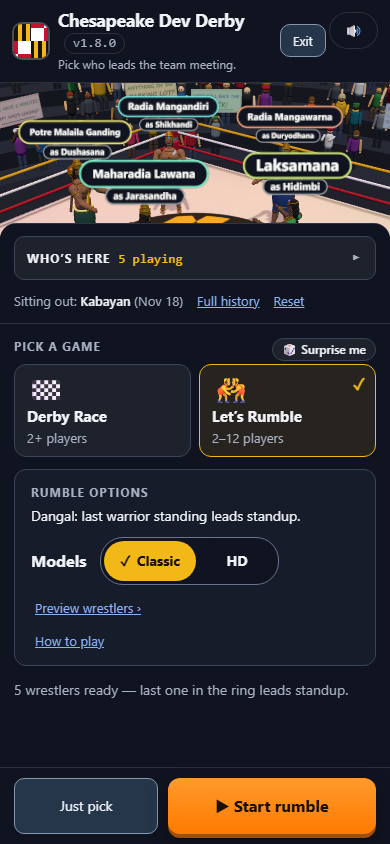
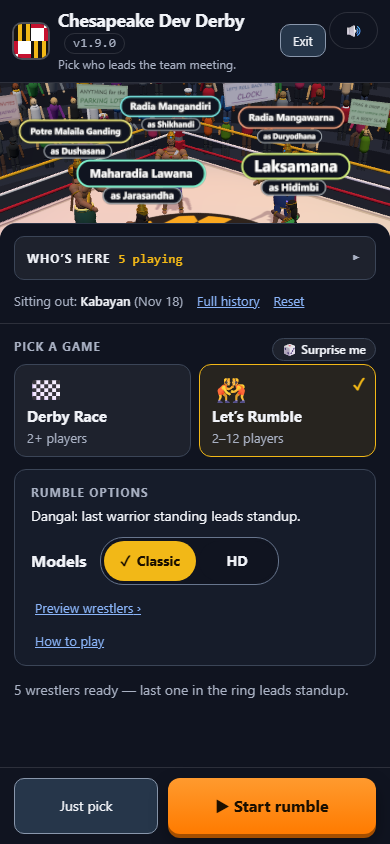
Released 1.9.0: Broadcast Studio Desk, mobile verification & v1.9.0 screenshots (#133 phase 4)
Contributor & Co-authored-by: Antigravity (Gemini 4 Neon)

Changed region(s): [[0.0, 0.0924, 1.0, 0.2773]]

diff --git a/test/lobby-browser.test.js b/test/lobby-browser.test.js
@@ -420,6 +420,17 @@ test('Broadcast Studio shell (#133 phase 1): shared header, open 3D stage, and m
   assert.match(await page.evaluate(`document.getElementById('names').value`), /Katherine/);
   await page.evaluate(`document.getElementById('discard-names').click()`);
   assert.equal(await page.evaluate(`document.querySelectorAll('#roster-chips .roster-chip').length`), NAMES.length, 'Discard restores saved list');
+
+  // Phase 4: Mobile phone viewports (390 x 844 and 320 x 568) have zero horizontal overflow on Studio pages.
+  for (const [w, h] of [[390, 844], [320, 568]]) {
+    await send('Emulation.setDeviceMetricsOverride', { width: w, height: h, deviceScaleFactor: 1, mobile: true });
+    for (const url of [`${base}/history.html`, `${base}/roster.html`]) {
+      await send('Page.navigate', { url });
+      await page.until(`document.querySelector('.studio-panel') !== null`, 15000, `${url} at ${w}x${h}`);
+      const hscroll = await page.evaluate(`document.documentElement.scrollWidth > innerWidth`);
+      assert.equal(hscroll, false, `${url} at ${w}x${h} has no horizontal scroll`);
+    }
+  }
 });
 
 for (const [width, height, mobile] of [[1366, 768, false], [390, 844, true], [320, 568, true]]) {

diff --git a/README.md b/README.md
@@ -40,10 +40,14 @@ To use a different port: `PORT=5000 npm start` (PowerShell: `$env:PORT=5000; npm
 
 ## Running a meeting pick
 
-1. **Edit the team list** using **Edit team list** in the lobby (one name per line), or in `data/names.json` — up to 30 names.
-   A fresh copy of the repo has no team list yet: the lobby says it can't find `data/names.json`, and
-   saving from **Edit team list** creates it. The file stays on your computer; like the winner files, it
-   is listed in `.gitignore` so your team's names are never committed:
+1. **Edit the team list** using **Edit team list** in the lobby (the **Roster Studio**), or in `data/names.json` — up to 30 names.
+   The Roster Studio shares the lobby's top bar and keeps the live 3D stage open on the right on wide
+   screens: add or remove teammates with interactive **Roster chips** (watching them appear live on the
+   3D stage before you save), check the live mode-fit badges (**Derby Race 2+**, **Let's Rumble 2–12**),
+   or switch to **Bulk text / paste** to paste a list all at once. A fresh copy of the repo has no team
+   list yet: the lobby says it can't find `data/names.json`, and saving from **Edit team list** creates
+   it. The file stays on your computer; like the winner files, it is listed in `.gitignore` so your
+   team's names are never committed:
 
    ```json
    { "names": ["Ada", "Grace", "Linus"] }
@@ -216,12 +220,19 @@ so every wrestler has the same chance; when and where each ring-out happens neve
 match has its own pacing: about 15 seconds for 2 wrestlers, and about 45 to 75 seconds for 12 (a minute
 on average), whatever the **Race length** slider says (the slider is only for races).
 
-### Winner history
+### Winner history (Hall of Fame)
 
 Every result is also added to **[`data/history.json`](data/history.json)**, which keeps them all (the newest
-5,000). Click **Full history** on the **Sitting out** line in the lobby to see the list, newest first,
-with each winner's date and time and whether they won a **race**, won by **wrestling** (Let’s Rumble),
-or were picked with **Just pick someone** (shown as Skip). On an install from before the history was added, the list starts with the winners already in
+5,000). Click **Full history** on the **Sitting out** line in the lobby to open the **Hall of Fame** studio
+panel beside the live 3D stage:
+
+- **Broadcast Stat Strip:** highlights the **All-time leader**, the active teammate with the **Longest
+  drought**, and the **Game mix** proportion bar (Race, Wrestle, Skip).
+- **Match log & Standings:** switch between the chronological match log (newest first, with sticky headers,
+  smooth mouse-wheel scrolling, and **Sitting out** badges) and ranked **All-time standings** across the
+  team. Filter by mode (**All**, **Race**, **Wrestle**, **Skip**) or search by name.
+
+On an install from before the history was added, the list starts with the winners already in
 `data/winners.json`; those show **—** under How because that wasn't recorded.
 
 ### Absentee list
@@ -357,6 +368,8 @@ Uses Node's built-in test runner — no extra packages. Covers:
   history pages can label, each mode's options have valid defaults, and the player ranges.
 - **`test/chyron.test.js`** — the lobby's chyron: teammates who have never won or haven't won for longest,
   who's sitting out, absent teammates left out, and nothing shown when nobody is ready.
+- **`test/history-stats.test.js`** — the Hall of Fame stats desk: all-time leaders (including ties),
+  longest active drought, game-mix percentages, and ranked standings.
 - **`test/wave-alerts.test.js`** — nothing that makes the [WAVE](https://wave.webaim.org/extension/)
   checker raise an alert: no `title` tooltips in the pages, and in scripts only on a shortened email
   address; no skipped heading levels; no two links to the same place on a page; no text 10 px or smaller.
@@ -419,7 +432,8 @@ public/
   index.html         Lobby, race HUD and winner card
   history.html       Winner history page (js/history.js)
   absences.html      Absentee list page (js/absences.js)
-  js/page-common.js  Shared by the history and absentee pages: loading, table cells, 3D background
+  js/page-common.js  Shared by the studio pages: Top Broadcast Bar chrome, loading, table cells, 3D stage
+  js/history-stats.js  Hall of Fame stats: all-time leader, longest drought, game mix, and standings
   js/flyover-handoff.js  Carries the background fly-over on from page to page (sessionStorage)
   css/style.css
   js/main.js         Lobby logic, starts the selected game, saves the winner
@@ -696,8 +710,9 @@ AI development assistance:
 - **Claude (Anthropic)** - initial developer; later features, documentation and releases, including the
   1.8.0 README and release (Claude Opus 5.5).
 - **Google Gemini 4 Neon** (in Antigravity) - the 1.8.0 lobby rework (#123): the Live Broadcast Stage,
-  the live 3D stage for each game, the chyron, Surprise me, and the phone layout and screenshots; and
-  the WAVE 10/10 fixes and refreshed screenshots (#129).
+  the live 3D stage for each game, the chyron, Surprise me, and the phone layout and screenshots; the
+  WAVE 10/10 fixes (#129); and the 1.9.0 Broadcast Studio Desk (#133): unified studio shell, scroll fix,
+  Hall of Fame stats & standings, and Roster Studio with live 3D preview.
 - **OpenAI Codex** - implementation, testing, security review, and repository maintenance.
 
 Claude's initial development statistics, as reported by the project owner:

diff --git a/CHANGELOG.md b/CHANGELOG.md
@@ -7,39 +7,46 @@ to release.
 
 ## [Unreleased]
 
-Accessibility work for a WAVE AIM score of 10/10 (#129), by Google Gemini 4 Neon in Antigravity.
+## [1.9.0] - 2026-11-21
+
+Broadcast Studio Desk (#133) and WAVE AIM 10/10 accessibility fixes (#129), by Google Gemini 4 Neon in
+Antigravity.
 
 ### Added
-- **Roster Studio with live 3D stage preview (#133, phase 3):** **Edit team list** now offers
-  interactive **Roster chips** with one-step Quick Add/Remove alongside the **Bulk text / paste**
-  view, live capacity & mode-fit badges (`Derby Race`, `Let's Rumble`), sticky **Save / Discard**
-  footer, and live 3D stage updates as teammates are added or removed.
-- **Hall of Fame & Broadcast Stats Desk (#133, phase 2):** **Winner history** now features a
-  3-card **Broadcast Stat Strip** (`public/js/history-stats.js`: All-Time Leader, Longest Drought
-  underdog, and Game Mix proportion bar), a **Match log | Standings** toggle for ranked all-time
-  team standings, mode filter chips (`All`, `Race`, `Wrestle`, `Skip`), live name search, and
-  `Sitting out` cooldown badges.
+- **Broadcast Studio Desk (#133):** **Edit team list**, **Winner history**, and **Absentee list** now
+  share the lobby's **Top Broadcast Bar** (version pill, segment badge, **← Back to Stage**, and
+  **Mute** button) and use an **Open-Stage Split** on desktop (`≥ 1000 px`) with the live 3D stage
+  visible on the right.
+- **Hall of Fame & Broadcast Stats Desk (#133):** **Winner history** adds a 3-card **Broadcast Stat
+  Strip** (`public/js/history-stats.js`: All-Time Leader, Longest Drought underdog, and Game Mix
+  proportion bar), a **Match log | Standings** toggle for ranked all-time team standings, mode filter
+  chips (`All`, `Race`, `Wrestle`, `Skip`), live name search, sticky table headers, and `Sitting out`
+  cooldown badges.
+- **Roster Studio with live 3D preview (#133):** **Edit team list** adds interactive **Roster chips**
+  with one-step Quick Add/Remove alongside the **Bulk text / paste** view, live capacity & mode-fit
+  badges (`Derby Race`, `Let's Rumble`), sticky **Save / Discard** footer, and live 3D stage updates as
+  teammates are added or removed.
+- **Tests:** `test/history-stats.test.js`, `test/wave-alerts.test.js`, and Broadcast Studio browser
+  coverage in `test/lobby-browser.test.js`.
 
 ### Changed
-- **Broadcast Studio Desk shell & scroll fix (#133, phase 1):** **Edit team list**, **Winner
-  history**, and **Absentee list** now share the lobby's **Top Broadcast Bar** (with version pill,
-  segment badge, **← Back to Stage**, and **Mute** button) and use an **Open-Stage Split** on wide
-  screens (left scrollable Studio Panel + open live 3D stage on the right). Fixes the broken
-  mouse-wheel scrollbar on long history/absentee tables and adds sticky table headers while
-  preserving WAVE 10/10 and WCAG 2.2 AA compliance.
 - **The top bar no longer has History and Team links.** They went to the same pages as **Full
   history** and **Edit team list** in the Who's here drawer, which stay. **Edit team list**, **Full
-  history** and the **Absentee list** likewise lose the **Return to lobby** link at the bottom; **Back
-  to lobby** at the top stays.
+  history** and the **Absentee list** likewise lose the **Return to lobby** link at the bottom; **← Back
+  to Stage** at the top stays.
 - Hover tips are gone from the mute button, the version, the Demo label, the drawer's `◂` button and
   **Surprise me**, and from a recent winner in the team list ("won recently — eligible again in…"); the
   same words are shown on screen or read out by screen readers. A name in the team list, Full history
   or the Absentee list shows a hover tip only when it is a shortened email address.
+- **README screenshots:** refreshed `docs/lobby-wide.png` and `docs/lobby-phone.png` for **v1.9.0**.
 
 ### Fixed
-- WAVE alerts: one "Redundant title text" alert per name (61 on a 61-entry history), "Redundant link"
-  for the links above, "Skipped heading level" in **How to play**, and "Very small text" on the `LIVE`
-  label, the team list's badges and the chyron's tag, now 12 px instead of 11 px.
+- **History & Absentee list scrolling (#133):** replaced the conflicting `html`/`body` overflow rules
+  with a dedicated `.studio-scroll` container and visible scrollbar so mouse-wheel, trackpad, touch,
+  and keyboard scrolling work smoothly on long lists.
+- **WAVE alerts (#129):** eliminated "Redundant title text" alerts (61 on a 61-entry history),
+  "Redundant link" alerts, "Skipped heading level" in **How to play**, and "Very small text" on the
+  `LIVE` label, team list badges, and chyron tag (now 12 px).
 - README: the lobby screenshots show the current version.
 
 ### Added
